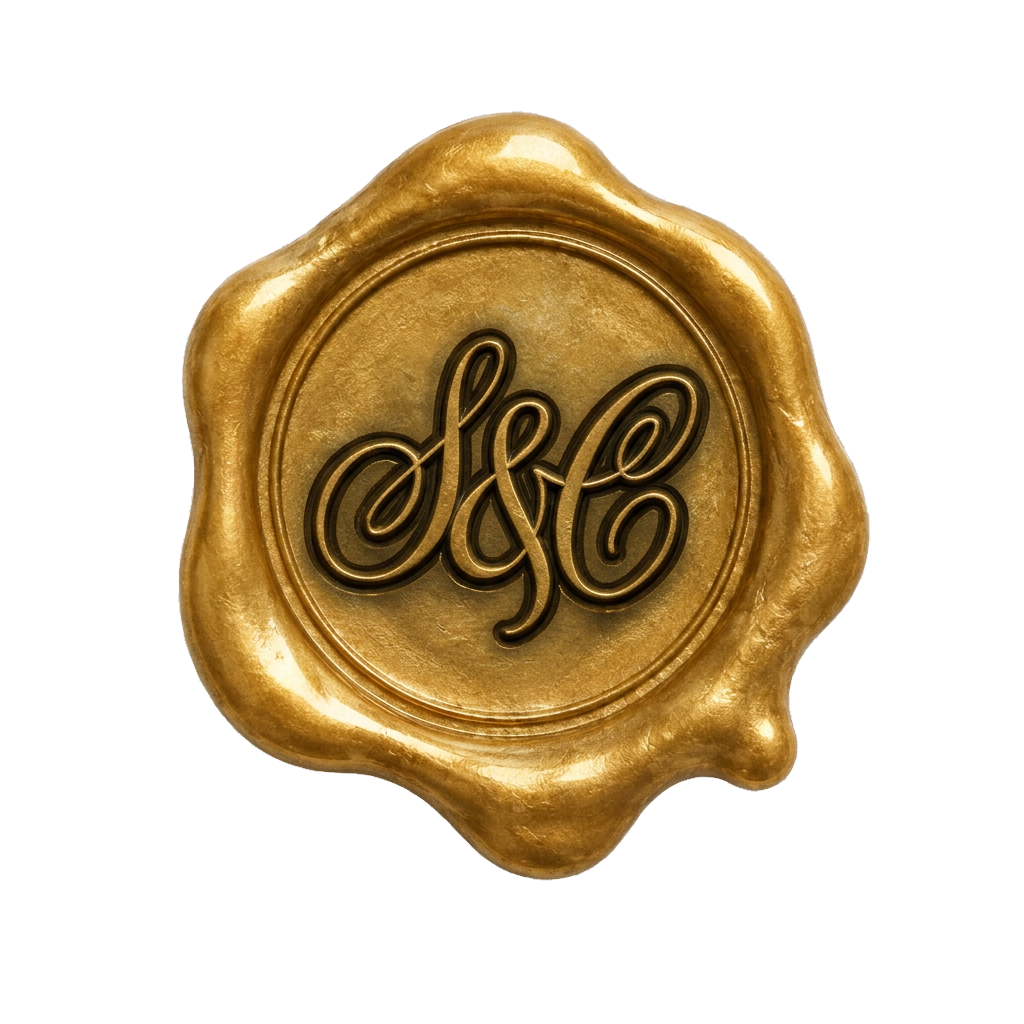
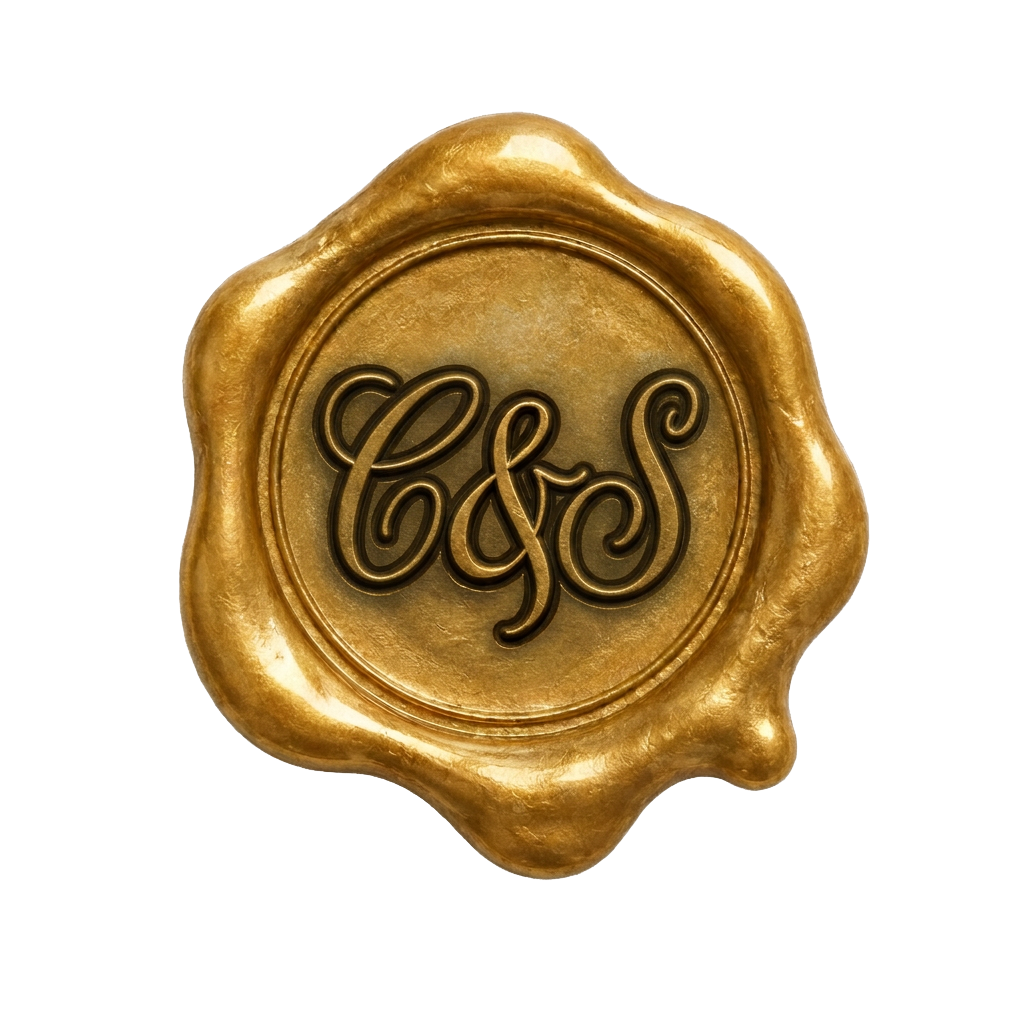
Changes

Changed region(s): [[0.2812, 0.2812, 0.5312, 0.5938], [0.5312, 0.3438, 0.6875, 0.625]]

diff --git a/public/wedding.html b/public/wedding.html
@@ -1072,7 +1072,7 @@
         .hamburger { display: flex; }
         .nav-links {
           display: none; flex-direction: column; gap: 0; width: 100%;
-          background: var(--ivory-2); border-top: 0.5px solid rgba(58,42,31,0.2); margin-top: 0.8rem;
+          background: transparent; border-top: 0.5px solid rgba(58,42,31,0.2); margin-top: 0.8rem;
         }
         .nav-links.open { display: flex; }
         .nav-links a { font-size: 0.72rem; padding: 0.85rem 0; border-bottom: 0.5px solid rgba(58,42,31,0.12); letter-spacing: 0.22em; }
@@ -1257,7 +1257,7 @@
 
     <!-- NAV -->
     <nav class="nav">
-      <div class="nav-logo">K &amp; C</div>
+      <div class="nav-logo">C &amp; S</div>
       <button class="hamburger" id="hamburger" onclick="toggleMenu()" aria-label="Toggle menu">
         <span></span><span></span><span></span>
       </button>
